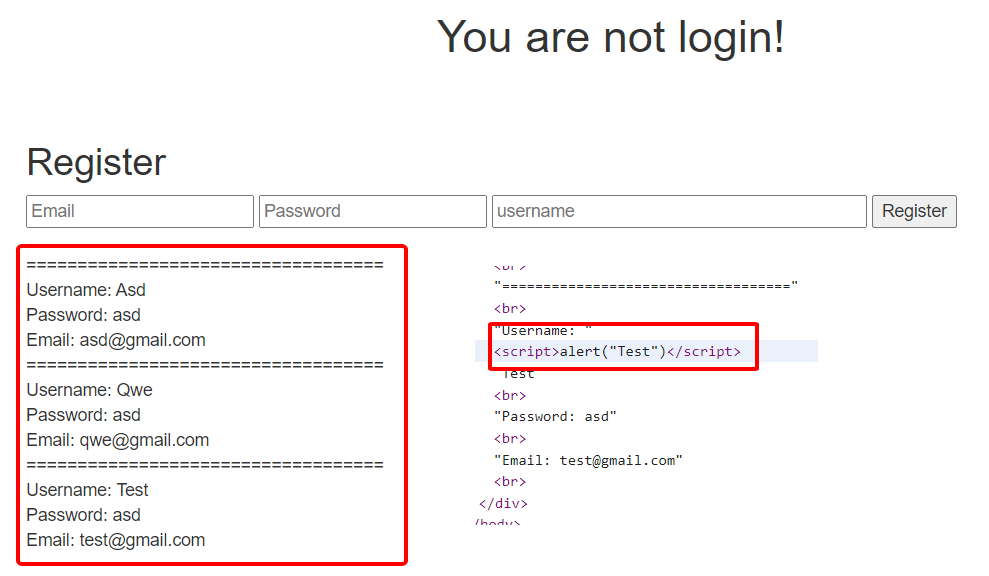
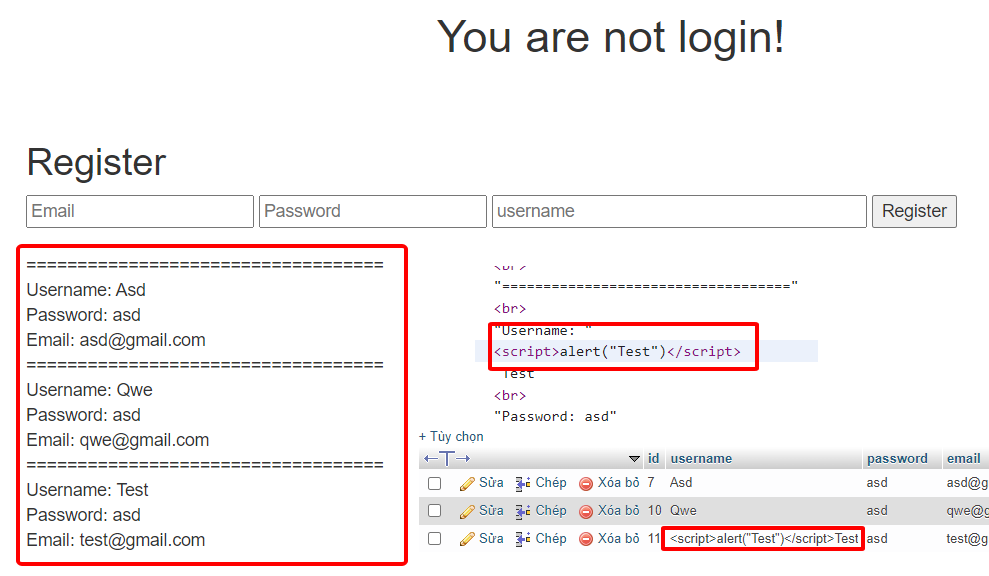
update img and readme

Changed region(s): [[0.4247, 0.75, 1.0, 0.9688]]

diff --git a/readme.md b/readme.md
@@ -40,7 +40,7 @@ Là loại tấn công XSS nâng cao, có thể thực hiện được khi tập
 - Tôi chèn 1 đoạn `script` vào `username` trong lúc thực hiện chức năng `Register`: `<script>alert("Test")</script>Test`
 ![Hinh 1.](~/../img/1.png)
 
-- Sau khi chèn xong thì ta thấy dữ liệu của `user` vừa register sẽ hiện ra bên dưới và ta không thấy đoạn `script` nào hết. Nhưng khi vào kiểm tra bên trong `source` sẽ thấy đoạn `script` ở trong đó.
+- Sau khi chèn xong thì ta thấy dữ liệu của `user` vừa register sẽ hiện ra bên dưới và ta không thấy đoạn `script` nào hết. Nhưng khi vào kiểm tra bên trong `source` sẽ thấy đoạn `script` ở trong đó. Và trong DB cũng chèn đoạn `script` đó.
 ![Hinh 2.](~/../img/2.png)
 
 - Bây giờ, load lại web thì đoạn `alert` đã truyền trước đó sẽ hiện lên.
